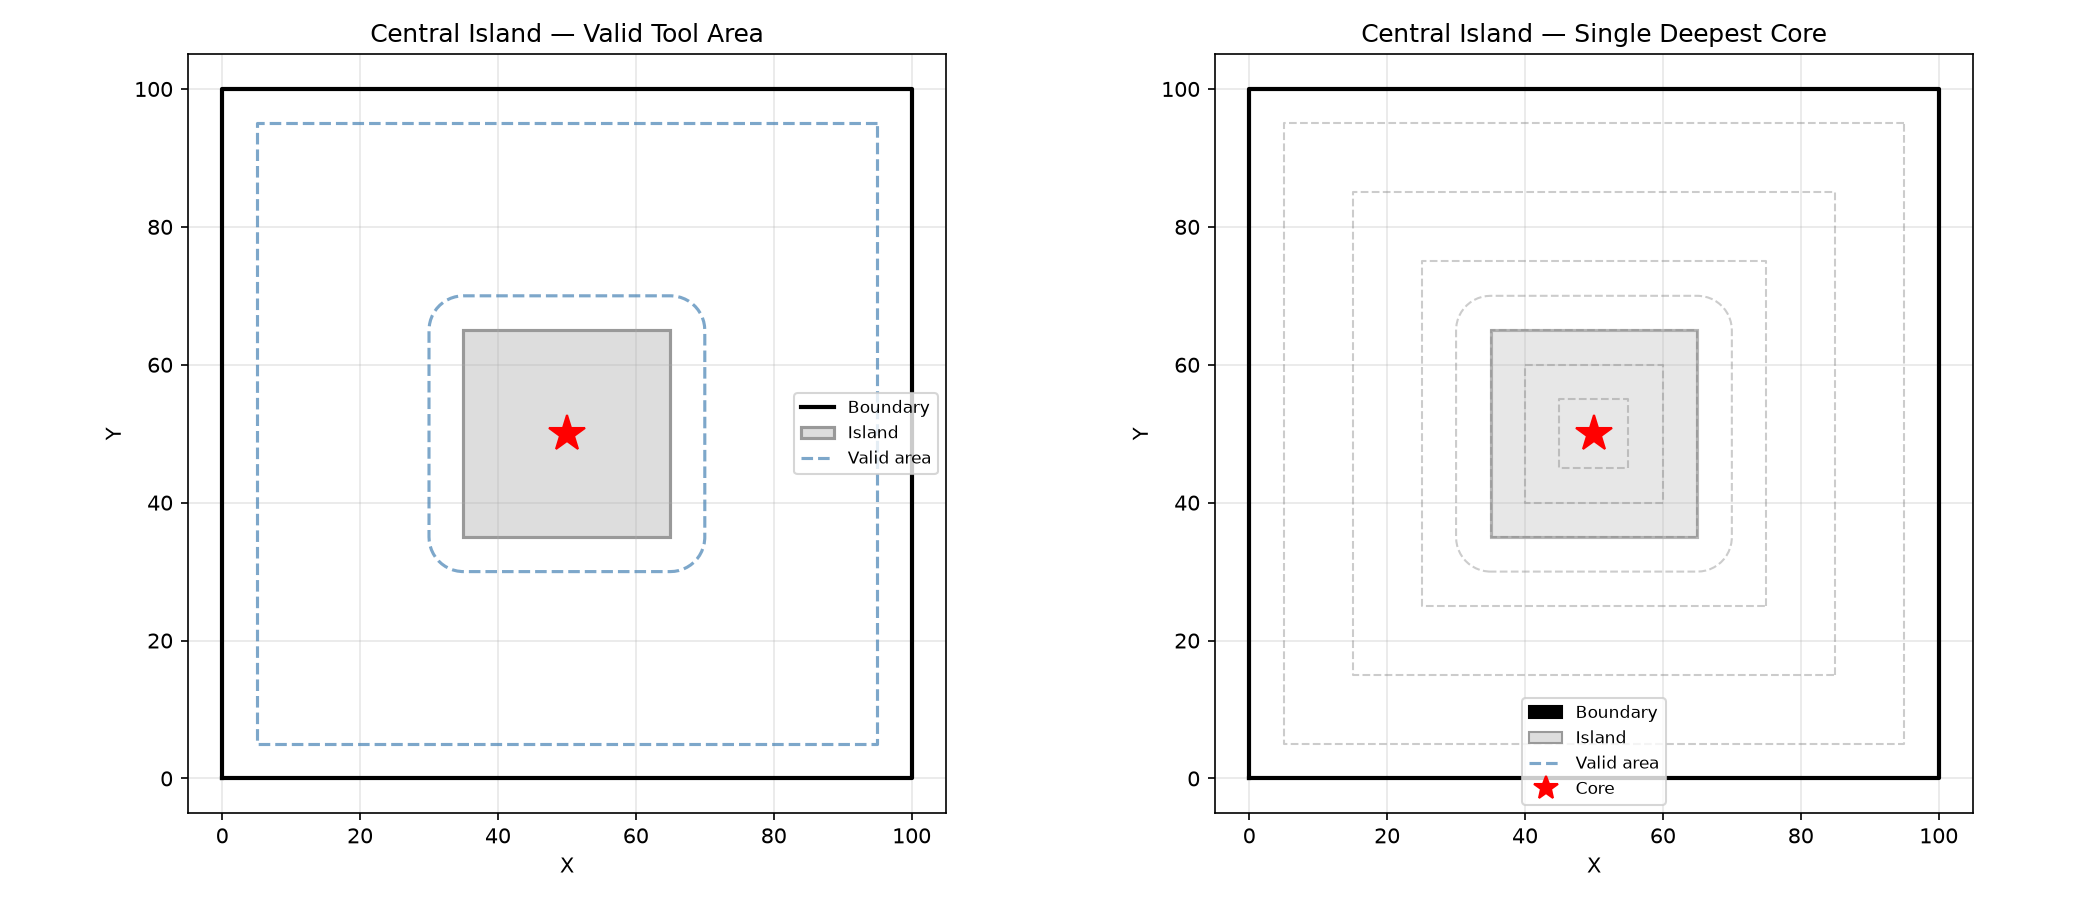
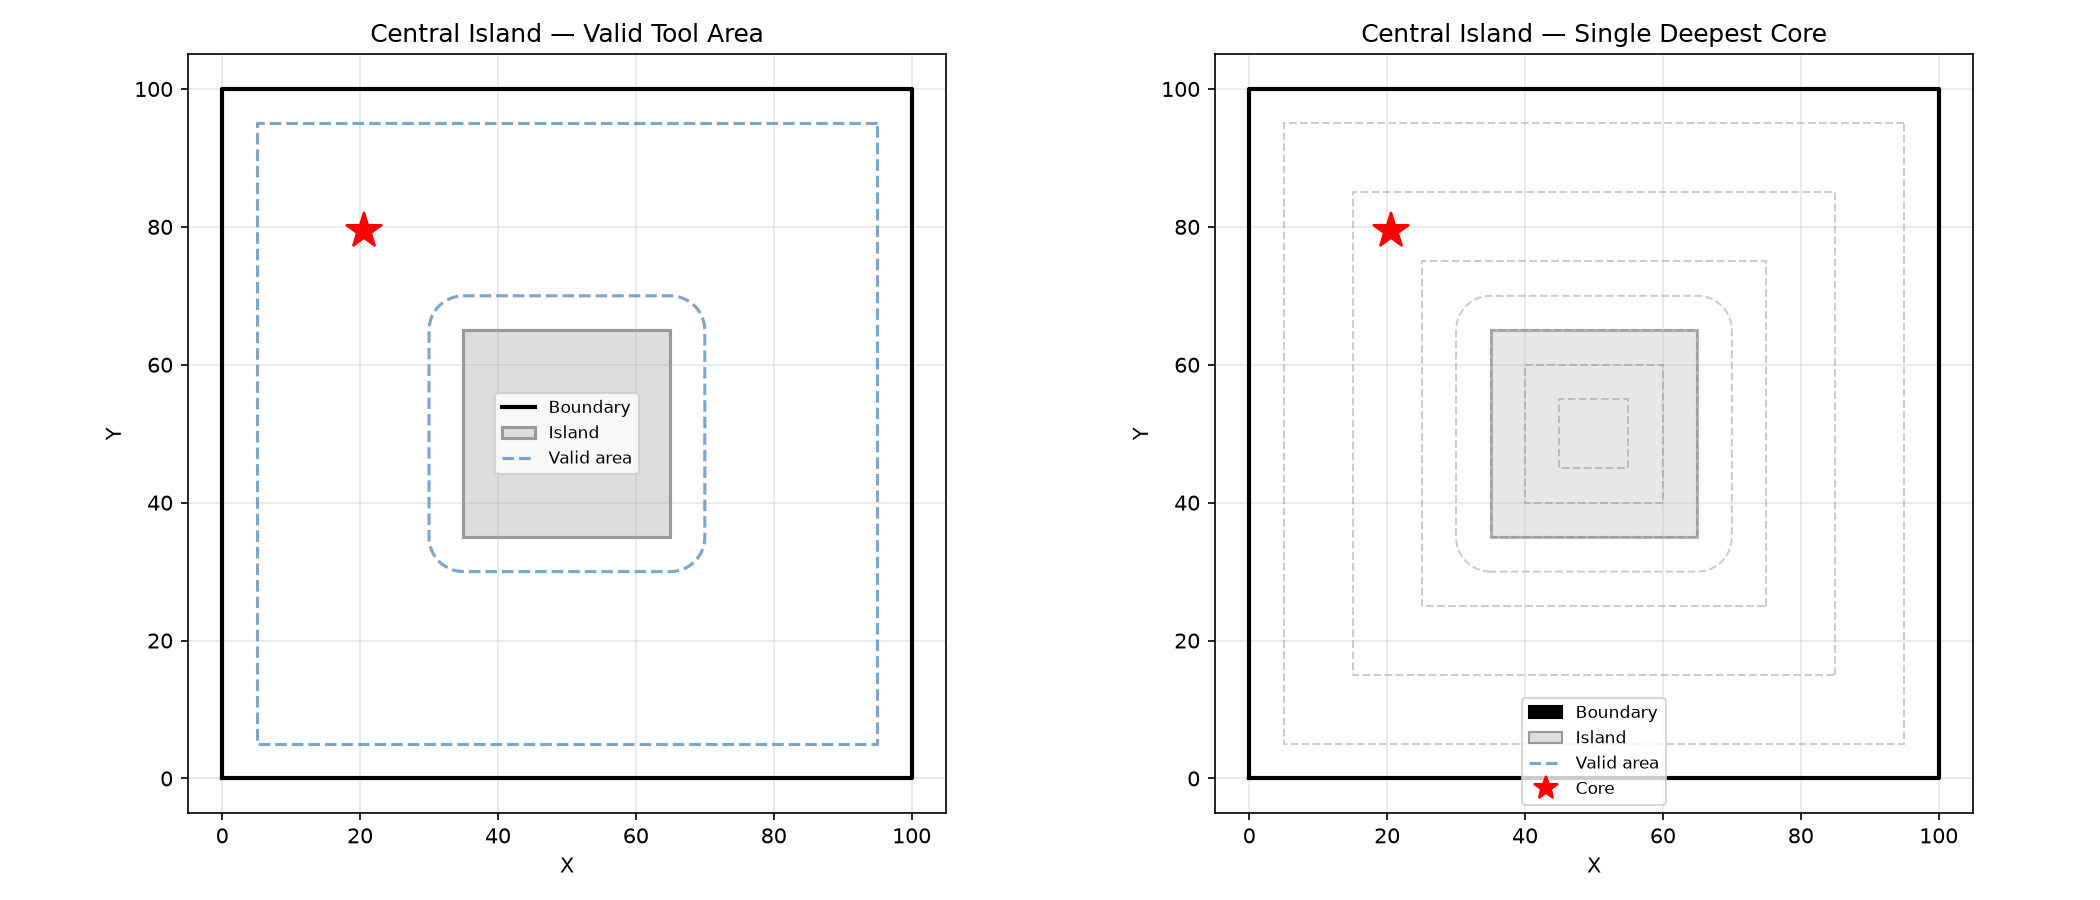
fix: deepest-core detection failed with center islands

diff --git a/src/geo/algo/offset.rs b/src/geo/algo/offset.rs
@@ -5,7 +5,7 @@
 //! (taken from its first vertex) is preserved on the output — the operation
 //! is a 2D inflate of the XY outline at the source Z plane.
 //!
-//! For off-axis offsetting (e.g. on an arbitrary work plane in 5-axis CNC),
+//! For off-axis offsetting (e.g. on an arbitrary work plane),
 //! use [`grow_geometry_on_plane`] which rotates the geometry so the target
 //! plane aligns with XY before offsetting.
 //!
@@ -15,14 +15,15 @@
 use glam::{DMat4, DQuat, DVec3};
 
 use crate::geo::algo::intersect::check_intersection_from_array;
+use crate::geo::algo::polylabel::find_largest_circle;
 use crate::geo::algo::topology::{
     build_hierarchy, get_valid_contours_data, group_solids_and_holes,
     split_into_contours,
 };
 use crate::geo::geometry::Geometry;
 use crate::geo::shape::polygon::{
-    get_polygon_area, get_polygon_centroid, get_polygons_difference,
-    get_polygons_group_difference, offset_polygon_with_style, JoinStyle,
+    get_polygon_area, get_polygon_centroid, get_polygons_group_difference,
+    is_point_in_polygon, offset_polygon_with_style, JoinStyle,
 };
 use crate::types::{Point, Point3D, Polygon};
 
@@ -85,24 +86,29 @@ pub fn offset_contour_group(
     if hole_paths.is_empty() {
         return offset_polygon_with_style(solid_path, offset, join_style);
     }
-    // Offset solid and holes separately, then subtract holes from solid.
-    // For positive offset (grow): solid expands outward, hole contracts (inward).
-    // For negative offset (shrink): solid contracts, hole expands.
-    // The hole offset direction is always opposite to the solid offset.
+    // Offset solid and holes separately, then subtract all holes from the
+    // solid in a single Clipper2 difference operation.
+    //
+    // For positive offset (grow): solid expands outward, hole contracts
+    // (inward).  For negative offset (shrink): solid contracts, hole
+    // expands.  The hole offset direction is always opposite to the solid
+    // offset.
+    //
+    // Subtracting all holes at once (rather than one at a time) lets
+    // Clipper2 assign consistent orientations to every resulting contour:
+    // outer boundaries CCW, holes CW.  Sequential subtraction corrupts the
+    // orientation of earlier holes when later holes are processed, because
+    // each intermediate polygon is treated as a standalone subject.
     let offset_solids =
         offset_polygon_with_style(solid_path, offset, join_style);
-    let mut final_polys = offset_solids;
-    for hole in hole_paths {
-        let offset_holes = offset_polygon_with_style(hole, -offset, join_style);
-        for offset_hole in &offset_holes {
-            let mut new_result = Vec::new();
-            for poly in final_polys.drain(..) {
-                new_result.extend(get_polygons_difference(&poly, offset_hole));
-            }
-            final_polys = new_result;
-        }
+    let offset_holes: Vec<Polygon> = hole_paths
+        .iter()
+        .flat_map(|hole| offset_polygon_with_style(hole, -offset, join_style))
+        .collect();
+    if offset_holes.is_empty() {
+        return offset_solids;
     }
-    final_polys
+    get_polygons_group_difference(&offset_solids, &offset_holes)
 }
 
 /// Offsets the closed contours of a Geometry object by a given amount.
@@ -110,10 +116,10 @@ pub fn offset_contour_group(
 /// This function grows (positive offset) or shrinks (negative offset) the
 /// area enclosed by closed paths.
 ///
-/// This implementation processes logically distinct shapes (islands)
+/// This implementation processes logically distinct contours
 /// independently. Holes are associated with their enclosing solids and
 /// offset together. Adjacent or overlapping solids remain separate, preserving
-/// distinct toolpaths.
+/// distinct outlines.
 pub fn grow_geometry(geometry: &Geometry, offset: f64) -> Geometry {
     let raw_contours = split_into_contours(geometry);
     if raw_contours.is_empty() {
@@ -189,8 +195,8 @@ pub fn grow_geometry(geometry: &Geometry, offset: f64) -> Geometry {
 /// axis, a 2D offset is performed in that plane, and the result is rotated
 /// back to the original coordinate frame.
 ///
-/// This enables offsetting contours that lie on non-XY planes — useful for
-/// 5-axis CNC toolpath generation where features may sit on angled faces.
+/// This enables offsetting contours that lie on non-XY planes — useful
+/// when features sit on angled faces.
 ///
 /// # Panics
 ///
@@ -250,14 +256,22 @@ pub fn grow_geometry_on_plane(
     result
 }
 
-/// Find the single deepest (most open) region of a pocket.
+/// Find the single most interior point of a compound polygon region.
 ///
-/// For each polygon in `valid_tool_area`, uses binary search to find the
-/// largest offset that does NOT collapse that polygon, then returns the
-/// centroid of the **largest surviving fragment across all polygons**.
+/// Returns the point whose minimum distance to any boundary (outer
+/// contour *or* hole) is greatest — the *pole of inaccessibility*.
 ///
-/// This gives the single best helical-entry point for the entire pocket,
-/// regardless of how many disconnected regions or islands it contains.
+/// Holes are detected by **spatial containment**: any input polygon
+/// whose first vertex lies inside another is treated as a hole of that
+/// polygon.  This is more robust than winding-based detection and works
+/// correctly even when polygon orientations are inconsistent.  When
+/// holes are present the core is found via
+/// [`find_largest_circle`], which is guaranteed to lie inside the
+/// filled area — never inside a hole.
+///
+/// For inputs without holes (a flat list of disconnected regions) the
+/// legacy binary-search path is used: it returns the centroid of the
+/// last surviving inward-offset fragment of the largest region.
 ///
 /// Returns an empty vec when the input is empty or `step_over` ≤ 0.
 ///
@@ -270,6 +284,91 @@ pub fn find_deepest_cores(
         return vec![];
     }
 
+    // Classify input polygons as solids or holes using spatial
+    // containment.  A polygon whose first vertex lies inside another
+    // input polygon is a hole; the rest are solids.  We pick the
+    // *smallest* containing polygon (by area) as the parent so that
+    // nested contours associate with their immediate enclosing contour.
+    let n = valid_tool_area.len();
+    let mut parent: Vec<Option<usize>> = vec![None; n];
+    for (i, poly_i) in valid_tool_area.iter().enumerate() {
+        if poly_i.len() < 3 {
+            continue;
+        }
+        let probe = poly_i[0];
+        let mut best: Option<usize> = None;
+        let mut best_area = f64::MAX;
+        for (j, poly_j) in valid_tool_area.iter().enumerate() {
+            if i == j || poly_j.len() < 3 {
+                continue;
+            }
+            if is_point_in_polygon(probe, poly_j) {
+                let area = get_polygon_area(poly_j);
+                if area < best_area {
+                    best_area = area;
+                    best = Some(j);
+                }
+            }
+        }
+        parent[i] = best;
+    }
+
+    let solid_indices: Vec<usize> = (0..n)
+        .filter(|&i| valid_tool_area[i].len() >= 3 && parent[i].is_none())
+        .collect();
+    let hole_indices: Vec<usize> = (0..n)
+        .filter(|&i| valid_tool_area[i].len() >= 3 && parent[i].is_some())
+        .collect();
+
+    // No holes (or no recognised solids): use the legacy binary-search
+    // path.  It returns the centroid of the last surviving inward-offset
+    // fragment, which matches existing behaviour for simple regions and
+    // for callers that pass a flat list of disconnected regions.
+    if hole_indices.is_empty() || solid_indices.is_empty() {
+        return find_deepest_cores_by_offset(valid_tool_area);
+    }
+
+    // Holes present: find the pole of inaccessibility per solid so the
+    // returned core always lies in the filled area, even for annular
+    // regions with central holes where a centroid-based approach would
+    // land inside the hole.
+    let mut best_point: Option<Point> = None;
+    let mut best_radius = -1.0_f64;
+
+    for &solid_idx in &solid_indices {
+        let solid = &valid_tool_area[solid_idx];
+
+        // Collect the holes that belong to this solid: any hole whose
+        // first vertex lies inside the solid.
+        let associated_holes: Vec<Polygon> = hole_indices
+            .iter()
+            .filter_map(|&h_idx| {
+                let hole = &valid_tool_area[h_idx];
+                hole.first()
+                    .filter(|&&p| is_point_in_polygon(p, solid))
+                    .map(|_| hole.clone())
+            })
+            .collect();
+
+        if let Some((centre, radius)) =
+            find_largest_circle(solid, &associated_holes, 0.5)
+        {
+            if radius > best_radius {
+                best_radius = radius;
+                best_point = Some(centre);
+            }
+        }
+    }
+
+    best_point.map(|p| vec![p]).unwrap_or_default()
+}
+
+/// Legacy core finder: binary-searches the largest inward offset that
+/// keeps each polygon alive and returns the centroid of the single
+/// largest surviving fragment across all inputs.
+///
+/// Used by [`find_deepest_cores`] for inputs without holes.
+fn find_deepest_cores_by_offset(valid_tool_area: &[Polygon]) -> Vec<Point> {
     let mut best_fragment: Option<Polygon> = None;
     let mut best_area = 0.0_f64;
 
@@ -341,8 +440,8 @@ pub fn find_deepest_cores(
         .unwrap_or_default()
 }
 
-/// Compute the region reachable by a circular tool of given radius
-/// moving inside a boundary while avoiding obstacles.
+/// Compute the region swept by a circle of given radius whose centre
+/// moves inside a boundary while avoiding obstacles.
 ///
 /// The boundary is inset (shrunk) by `radius`, and each obstacle is
 /// expanded (grown) by `radius` and subtracted from the inset

diff --git a/tools/examples/geo_algo_offset.py b/tools/examples/geo_algo_offset.py
@@ -446,18 +446,18 @@ __images__ = [
     {
         "heading": "find_deepest_cores",
         "caption": (
-            "Deepest-core detection: binary search finds the largest"
-            " offset that does NOT collapse the pocket, then returns"
-            " the centroid of the largest surviving fragment"
+            "Deepest-core detection: finds the point of maximum clearance"
+            " inside the valid tool area — the best helical-entry point"
+            " for the pocket"
         ),
         "function": generate_deepest_cores,
     },
     {
         "heading": "find_deepest_cores",
         "caption": (
-            "Multi-island pocket: the valid tool area splits into"
-            " multiple regions; `find_deepest_cores` returns the single"
-            " centroid of the largest surviving fragment"
+            "Multi-island pocket: islands are detected by orientation"
+            " (clockwise contours) and excluded; the core is the pole of"
+            " inaccessibility of the largest valid region"
         ),
         "function": generate_deepest_cores_multi,
     },
@@ -465,8 +465,8 @@ __images__ = [
         "heading": "find_deepest_cores",
         "caption": (
             "Central-island pocket (annular): the island creates a ring"
-            " of valid tool area; the deepest core sits at the centre"
-            " of the ring"
+            " of valid tool area; the deepest core is the point of"
+            " maximum clearance in the ring — never inside the island"
         ),
         "function": generate_deepest_cores_central,
     },

diff --git a/docs/api/raygeo.geo.algo.offset.md b/docs/api/raygeo.geo.algo.offset.md
@@ -91,20 +91,20 @@ centroids of the final polygons — optimal points for helical entry in adaptive
 | _Returns_         | `list[geo.types.Point]`       | List of (x, y) centroid points.                       |
 | _Complexity_      |                               | O(n \* k) where k is the number of iterations         |
 
-![Deepest-core detection: binary search finds the largest offset that does NOT collapse the pocket, then returns the centroid of the largest surviving fragment](images/geo-algo-offset-deepest-cores.png)
+![Deepest-core detection: finds the point of maximum clearance inside the valid tool area — the best helical-entry point for the pocket](images/geo-algo-offset-deepest-cores.png)
 
-_Deepest-core detection: binary search finds the largest offset that does NOT collapse the pocket,
-then returns the centroid of the largest surviving fragment_
+_Deepest-core detection: finds the point of maximum clearance inside the valid tool area — the best
+helical-entry point for the pocket_
 
-![Multi-island pocket: the valid tool area splits into multiple regions; `find_deepest_cores` returns the single centroid of the largest surviving fragment](images/geo-algo-offset-deepest-cores-multi.png)
+![Multi-island pocket: islands are detected by orientation (clockwise contours) and excluded; the core is the pole of inaccessibility of the largest valid region](images/geo-algo-offset-deepest-cores-multi.png)
 
-_Multi-island pocket: the valid tool area splits into multiple regions; `find_deepest_cores` returns
-the single centroid of the largest surviving fragment_
+_Multi-island pocket: islands are detected by orientation (clockwise contours) and excluded; the
+core is the pole of inaccessibility of the largest valid region_
 
-![Central-island pocket (annular): the island creates a ring of valid tool area; the deepest core sits at the centre of the ring](images/geo-algo-offset-deepest-cores-central.png)
+![Central-island pocket (annular): the island creates a ring of valid tool area; the deepest core is the point of maximum clearance in the ring — never inside the island](images/geo-algo-offset-deepest-cores-central.png)
 
-_Central-island pocket (annular): the island creates a ring of valid tool area; the deepest core
-sits at the centre of the ring_
+_Central-island pocket (annular): the island creates a ring of valid tool area; the deepest core is
+the point of maximum clearance in the ring — never inside the island_
 
 ### `offset_contour_group()`
 
